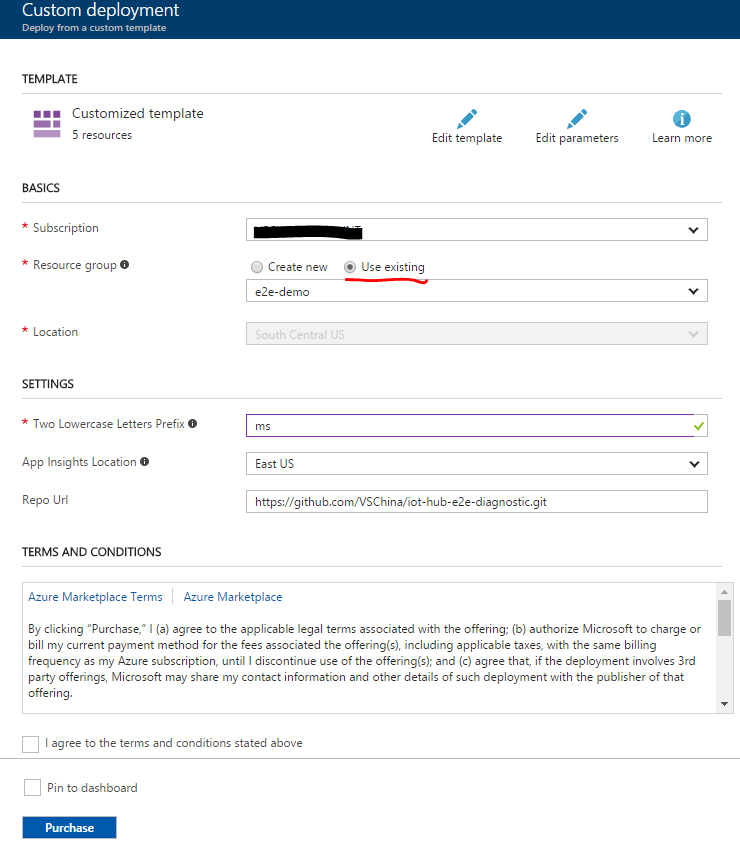
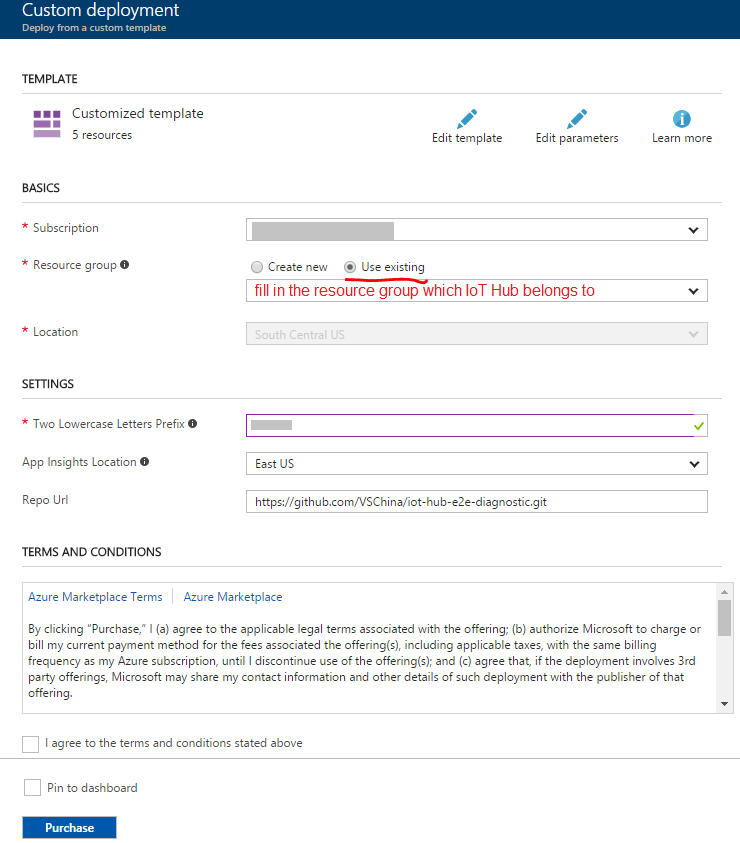
Update bug bash document

Changed region(s): [[0.3419, 0.3393, 0.8081, 0.3701], [0.3419, 0.2467, 0.5284, 0.3084], [0.3419, 0.4935, 0.4041, 0.5243]]

diff --git a/Guide to Update Existing IoT Hub and ASA/Bug Bash.md b/Guide to Update Existing IoT Hub and ASA/Bug Bash.md
@@ -1,0 +1,78 @@
+## Setup E2E Diagnostic solution based on existing IoT Hub and Stream Analytics
+### Provision diagnostics resources using ARM template
+1. Navigate to [e2e diagnostics repo](https://github.com/VSChina/iot-hub-e2e-diagnostic/tree/existing_HUB_SA)
+2. Click **Deploy to Auzre**, it will navigate to azure portal
+3. Select subscription and resource group that existing IoT Hub and Stream Analytics belongs to
+![](./New_Existing_IoT_Stream.PNG)
+4. Two lower case letters prefix is used as prefix of provisioned resources for distinguishing from other resources
+5. Check "*I agree to terms and conditions stated above*"
+6. Click **Purchase**
+
+### Modifying existing IoT Hub
+1. Open the existing IoT Hub in Azure portal
+2. Navigate to **Endpoints** under **MESSAGING**, click **Add** button to add end point
+![](./Add_Endpoint.PNG)
+3. Navigate to **Routes** under **MESSAGING**, click **Add** button to add two routes:
+![](./Add_EventRoute.PNG)
+![](./Add_DiagRoute.PNG)
+
+### Modifying existing Stream Analytics Job
+1. Open the existing Stream Analytics Job in Azure portal
+2. Click **Overview** tab and click *Stop* button to stop streaming job
+3. Click **Outputs** tab under *JOB TOPOLOGY*
+4. Click *Add* button to add new output, then click *Create* button
+
+   ![](./Stream_Diag_Output.png)
+5. Click **Query** tab under *JOB TOPOLOGY*, append the following query at the end of existing query, of course you need replace *diagInput* and *diagOutput* with corresponding input and output in your query:
+    ```sql
+    SELECT
+        *, GetMetadataPropertyValue([diagInput], '[User].[x-correlation-id]') AS 'x-correlation-id',
+        GetMetadataPropertyValue([diagInput], '[User].[x-before-send-request]') AS 'x-before-send-request'
+    INTO
+        [diagOutput]
+    FROM
+        [diagInput]
+    WHERE 
+        GetMetadataPropertyValue([diagInput], '[User].[x-correlation-id]') IS NOT NULL
+    ```
+6. Click *Save* button to save the change
+7. Switch to **Overview** tab, click *Start* button to start streaming job
+
+### Configure Web App
+In order to track the behaviors of Web APP correctly with Application Insights, there are some required settings need to be configured manually.
+
+First of all, *Application ID* of the Application Insights must be set in the Web APP. Besides, there are several API Keys the Web APP need to use.
+
+1. Get the Application ID
+
+    Find the Application Insights deployed by the ARM Template, click **API Access** in the left panel under **CONFIGURE**, the *Application ID* just shows in right panel.
+
+    Copy it and we will use it later.
+
+    ![Application ID](./applicationid.png)
+
+2. Create Application Insights API Keys
+
+    Stay in the **API Access** panel, click the **Create API Key** button:
+
+    ![Create API Key](./create_api_key.png)
+
+    Provide a description in the pop up panel to help you identify this API Key in the future.
+    Check all permission that the API Key will allow apps to do.
+
+    Then click **Generate key**.
+
+    **Make sure you copy the key immediately.** You won't see it again once you close the panel.
+
+    Repeat the actions several times depending on the number of keys requried (We need 8 API Key for our scenario). And please make sure you copy the API Key immediately after it is generated.
+
+    ![Fill in the panel](./description.png)
+
+3. Config the API Key in Web APP
+
+    Go to the Web APP that will leverage the Application Insights, click the **Application settings** in the left panel, scroll down to App Settings.
+    Fill in the rows whose keys were already set by ARM Template with corresponding values, including the Application ID we just copied and the API Keys created.
+
+    Click the **Save** button in the left top to save all the settings.
+
+    ![Configure Web APP](./set_api_key.png)

diff --git a/Guide to Update Existing IoT Hub and ASA/Guide to Update Existing IoT Hub and SAS.md b/Guide to Update Existing IoT Hub and ASA/Guide to Update Existing IoT Hub and SAS.md
@@ -49,16 +49,55 @@ To enable end-to-end diagnostics in the above IoT Hub solution, a few resources 
 
    ![](./Stream_Diag_Output.png)
 5. Click **Query** tab under *JOB TOPOLOGY*, append the following query at the end of existing query, of course you need replace *diagInput* and *diagOutput* with corresponding input and output in your query:
-```sql
-SELECT
-    *, GetMetadataPropertyValue([diagInput], '[User].[x-correlation-id]') AS 'x-correlation-id',
-    GetMetadataPropertyValue([diagInput], '[User].[x-before-send-request]') AS 'x-before-send-request'
-INTO
-    [diagOutput]
-FROM
-    [diagInput]
-WHERE 
-    GetMetadataPropertyValue([diagInput], '[User].[x-correlation-id]') IS NOT NULL
-```
+    ```sql
+    SELECT
+        *, GetMetadataPropertyValue([diagInput], '[User].[x-correlation-id]') AS 'x-correlation-id',
+        GetMetadataPropertyValue([diagInput], '[User].[x-before-send-request]') AS 'x-before-send-request'
+    INTO
+        [diagOutput]
+    FROM
+        [diagInput]
+    WHERE 
+        GetMetadataPropertyValue([diagInput], '[User].[x-correlation-id]') IS NOT NULL
+    ```
 6. Click *Save* button to save the change
 7. Switch to **Overview** tab, click *Start* button to start streaming job
+
+### Configure Web App
+In order to track the behaviors of Web APP correctly with Application Insights, there are some required settings need to be configured manually.
+
+First of all, *Application ID* of the Application Insights must be set in the Web APP. Besides, there are several API Keys the Web APP need to use.
+
+1. Get the Application ID
+
+    Find the Application Insights deployed by the ARM Template, click **API Access** in the left panel under **CONFIGURE**, the *Application ID* just shows in right panel.
+
+    Copy it and we will use it later.
+
+    ![Application ID](./applicationid.png)
+
+2. Create Application Insights API Keys
+
+    Stay in the **API Access** panel, click the **Create API Key** button:
+
+    ![Create API Key](./create_api_key.png)
+
+    Provide a description in the pop up panel to help you identify this API Key in the future.
+    Check all permission that the API Key will allow apps to do.
+
+    Then click **Generate key**.
+
+    **Make sure you copy the key immediately.** You won't see it again once you close the panel.
+
+    Repeat the actions several times depending on the number of keys requried (We need 8 API Key for our scenario). And please make sure you copy the API Key immediately after it is generated.
+
+    ![Fill in the panel](./description.png)
+
+3. Config the API Key in Web APP
+
+    Go to the Web APP that will leverage the Application Insights, click the **Application settings** in the left panel, scroll down to App Settings.
+    Fill in the rows whose keys were already set by ARM Template with corresponding values, including the Application ID we just copied and the API Keys created.
+
+    Click the **Save** button in the left top to save all the settings.
+
+    ![Configure Web APP](./set_api_key.png)
